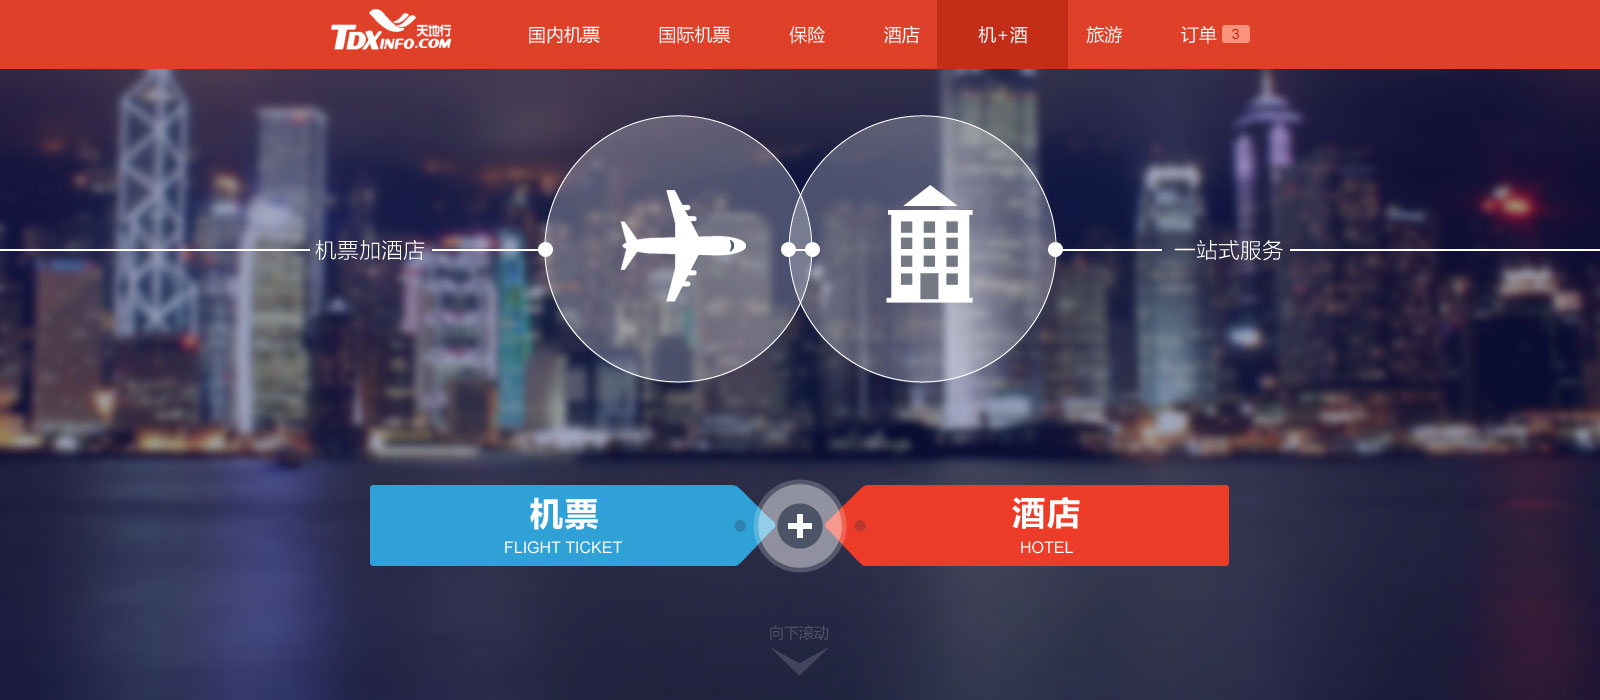
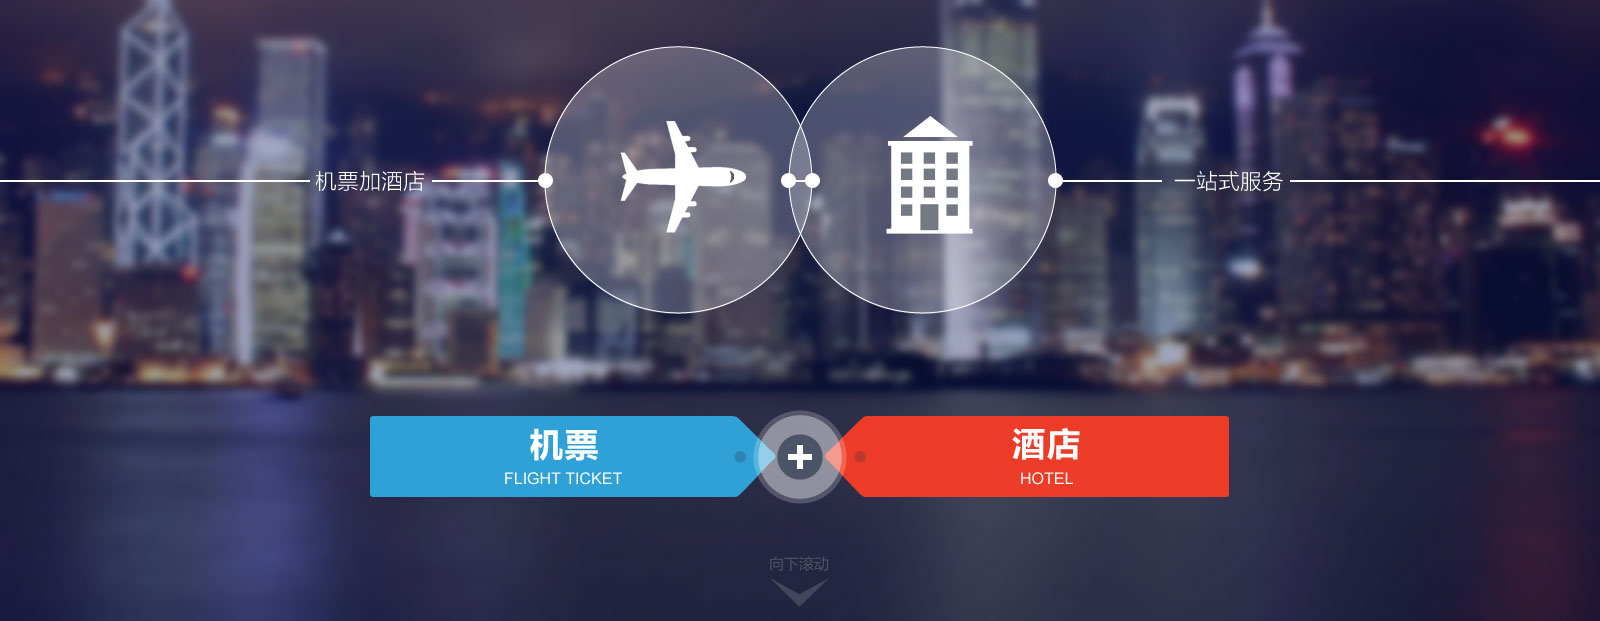
update 几家球

diff --git a/采购商/机加酒.html b/采购商/机加酒.html
@@ -40,9 +40,120 @@
 <div class="scene s1"></div>
 <div class="scene s2"></div>
 <div class="scene s3">
-    <div class="s3_0 scene"></div>
+    <div class="s3_0"></div>
     <div class="s3_1"></div>
 </div>
+<script>
+    function scrollScene(){
+        this.animId = 0;
+        this.eles = $('.scene');
+        this.init();
+    }
+    scrollScene.prototype = {
+        init:function(){
+            var that = this;
+            //that.hideScrollBar();
+            window.onload = function(){
+                that.scroll();
+            };
+            that.resize();
+            that.stopAnim();
+            that.setSceneDimension();
+        },
+        hideScrollBar:function(){
+            $('body').css({overflow:'hidden'});
+        },
+        setSceneDimension:function(){
+            var that = this;
+            var eles = that.eles;
+
+            eles.css({
+                height:window.innerHeight,
+                width:window.innerWidth
+            });
+        },
+        getCurrentScene:function(){
+            var that = this;
+            var pos = that.getCurrentScrollPosition();
+            var i = 0;
+            var len = that.eles.length;
+            var index,min,max;
+            var baseHeight = window.innerHeight;
+            var baseWidth = window.innerWidth;
+            var firstEleOffsetTop = that.eles.eq(0).offset().top;
+
+            for(;i<len;i++){
+                if ( pos.y > i*baseHeight && pos.y < (i+1)*baseHeight ){
+                    index = i;
+                    break;
+                }
+            }
+
+            //min = parseInt((index+1)*baseHeight+firstEleOffsetTop-baseHeight/2);
+            //max = parseInt((index+2)*baseHeight+firstEleOffsetTop-baseHeight/2);
+            min = parseInt((index+0)*baseHeight+firstEleOffsetTop);
+            max = parseInt((index+1)*baseHeight+firstEleOffsetTop);
+
+            return {
+                index:index,
+                base:index*baseHeight+firstEleOffsetTop,
+                min:min,
+                max:max
+            };
+        },
+        getSceneDimension:function(){
+            var that = this;
+            var eles = that.eles;
+        },
+        getCurrentScrollPosition:function(){
+            return {
+                x:window.scrollX,
+                y:window.scrollY
+            }
+        },
+        scroll:function(){
+            var that = this;
+            $(window).on('scroll',function(){
+                that.anim();
+            });
+        },
+        anim:function(){
+            var that = this;
+            var pos = that.getCurrentScrollPosition();
+            var current = that.getCurrentScene();
+            var max = window.innerHeight;
+            console.log(current);
+            console.log(pos.y);
+            if( pos.y > current.min && pos.y < current.max ){
+
+            }else{
+                //return that.stopAnim();
+            }
+
+            (function animloop(){
+                that.animId = requestAnimationFrame(animloop);
+                max--;
+                if(max<0) return that.stopAnim();
+                window.scrollBy(0,1);
+            })();
+        },
+        resize:function(){
+            var that = this;
+            $(window).on('resize',function(){
+                console.log('window resized,rebind,redimensiton');
+                that.stopAnim();
+                that.setSceneDimension();
+            });
+        },
+        stopAnim:function(){
+            cancelAnimationFrame(this.animId);
+        }
+    };
+
+    $(function(){
+        new scrollScene();
+    });
+</script>
 </section> <!--body end-->
         <footer class="main-footer">
             <div class="footerContainer">

diff --git a/static/css/store_v2/fhintro.css b/static/css/store_v2/fhintro.css
@@ -1,14 +1,14 @@
 .scene{
     background-repeat:no-repeat;
     background-position:50% 50%;
-    min-height:700px;
+    min-height:200px;
 }
 .s0{
     background-color:#272847;
     background-image:url(../../images/store/jijiajiu/s0.jpg);
     height: 631px;
     min-height:400px;
-    background-position:50% 100%;
+    background-position: 50% 0%;
 }
 .s1{
     background-color:#27264e;
@@ -25,7 +25,7 @@
 .s3_0{
     height:100%;
     width:100%;
-    background-image:url(../../images/store/jijiajiu/s3.jpg);
+    background:url(../../images/store/jijiajiu/s3.jpg) no-repeat 50% 50%;;
 }
 .s3_1{
     position:absolute;
